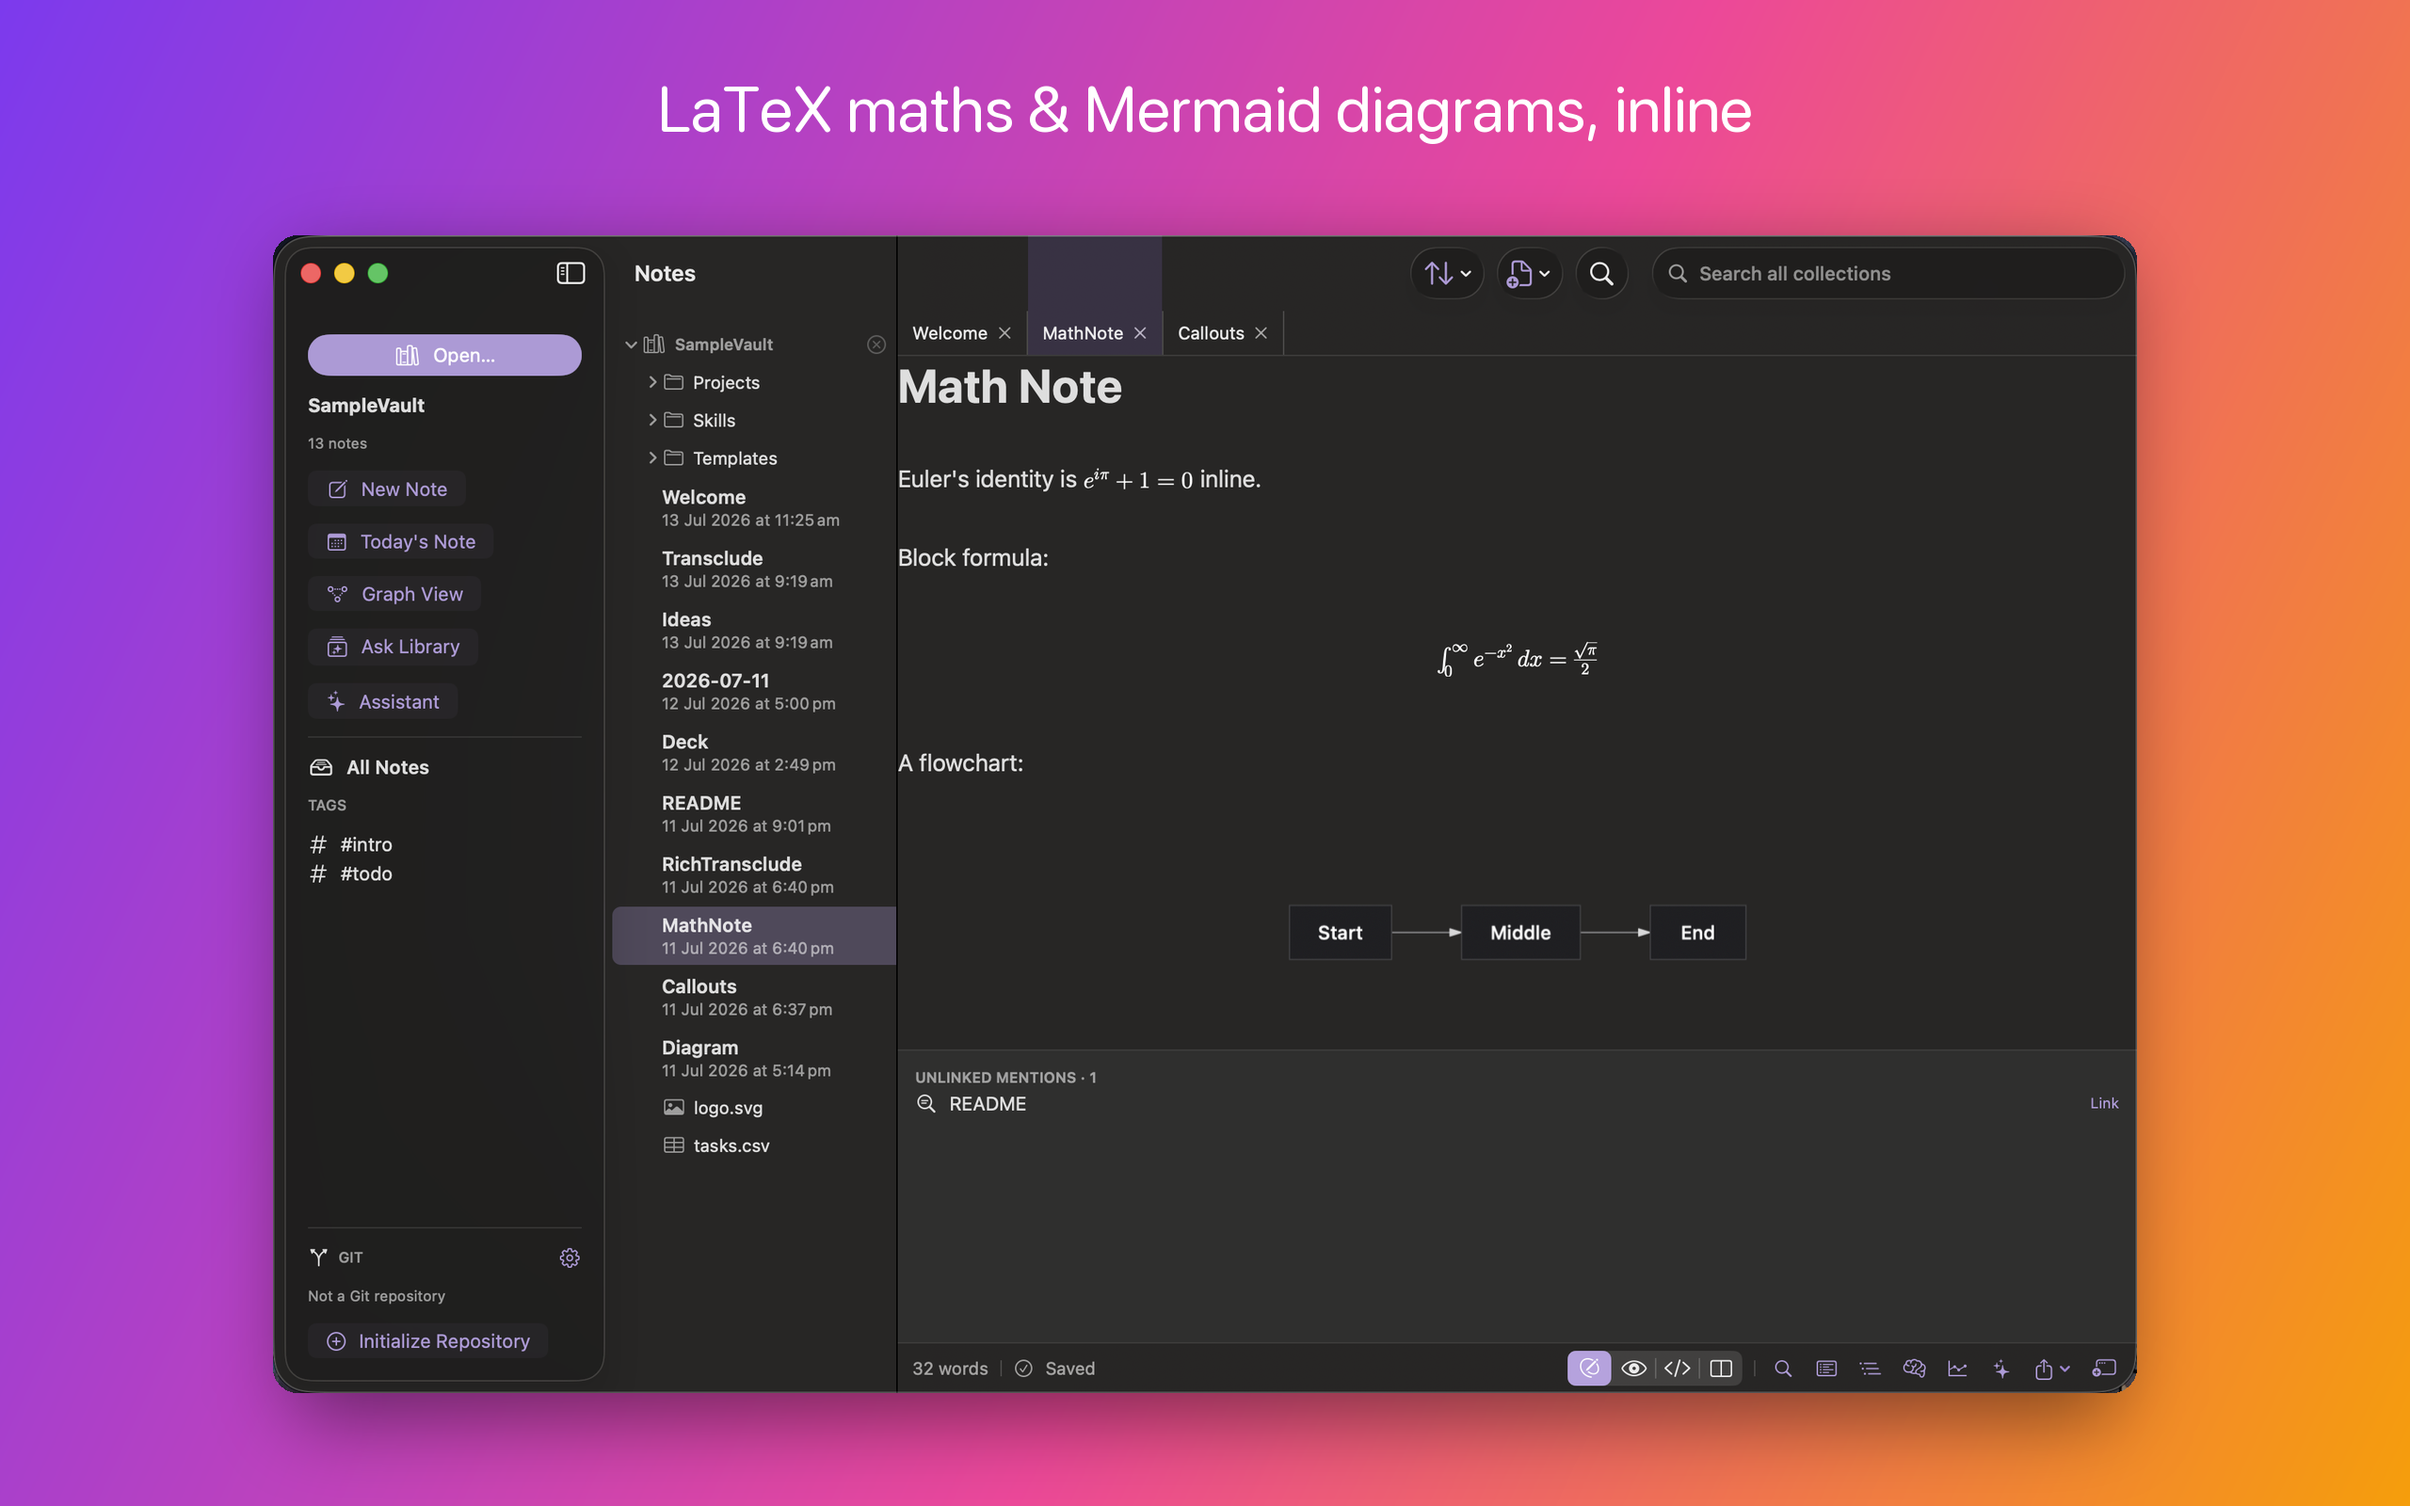
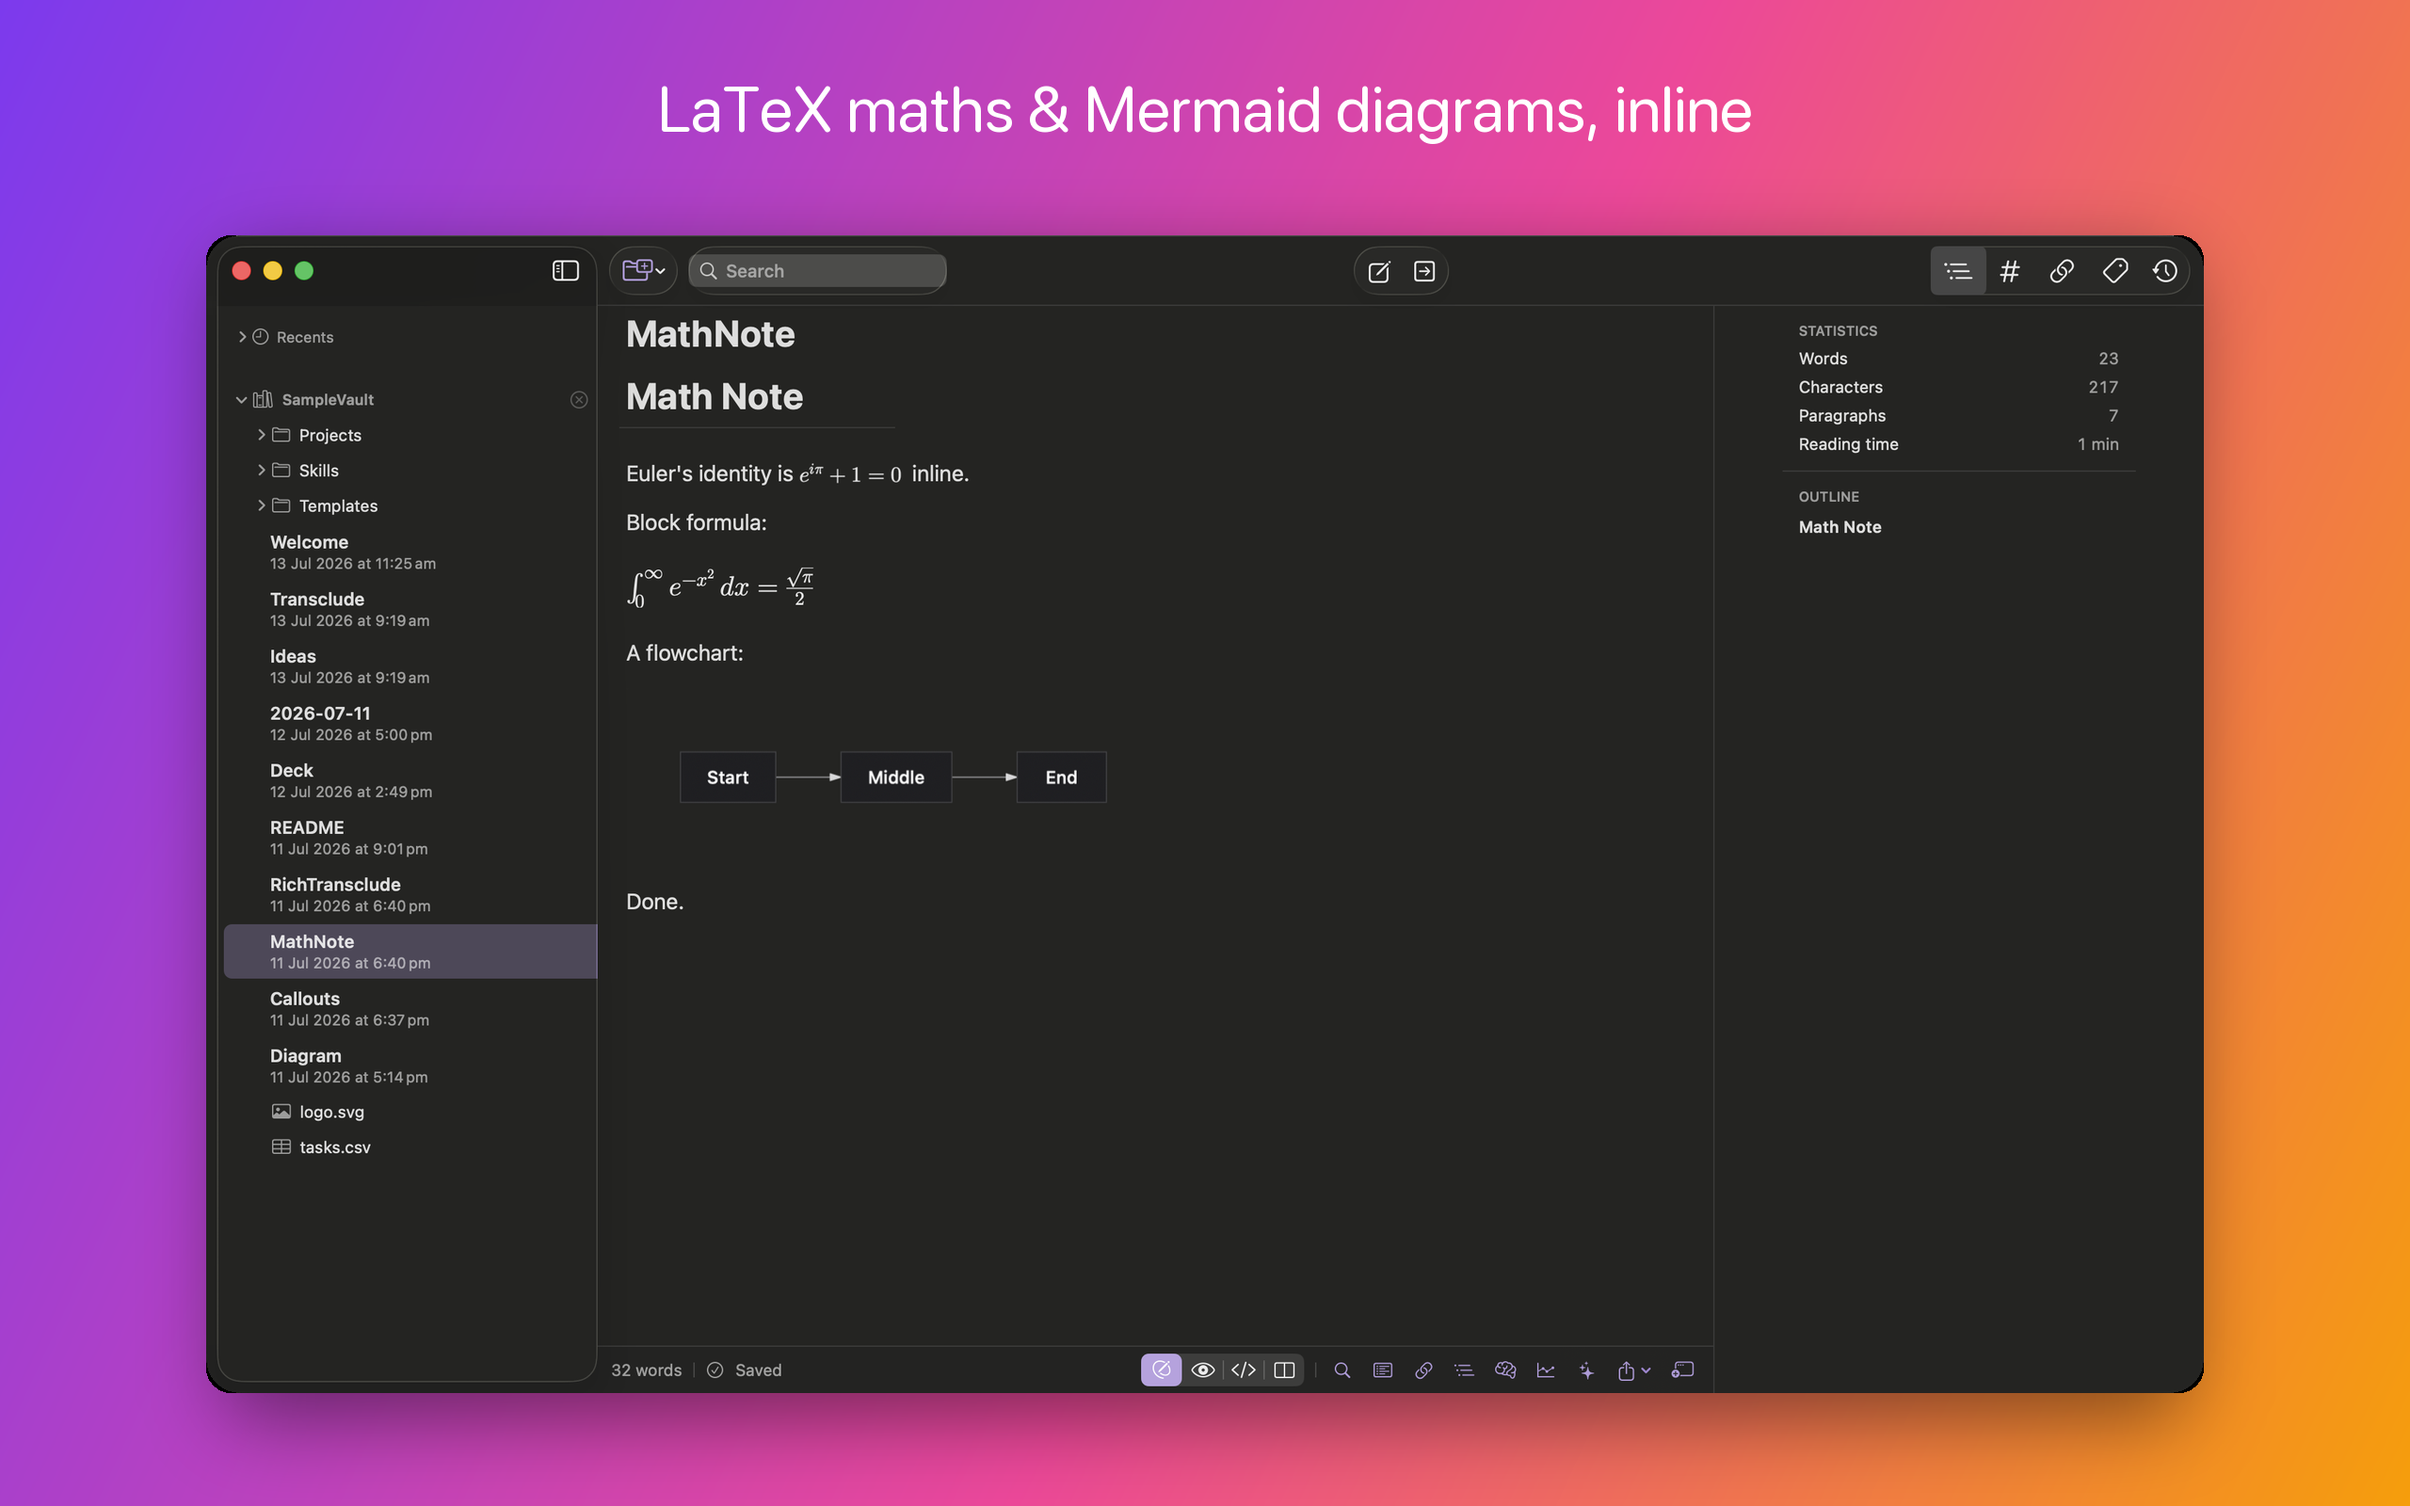
Reshoot the website screenshots for the new shell
All ten plates recaptured from one binary — the old set showed a library rail,
a collection card and quick-action buttons that no longer exist.

The shoot is worth its cost for reasons beyond the images. It found three
editor bugs, all fixed first so the plates show the shipping build: the `$$`
concealment artifacts, a red spell-check squiggle surviving concealment on
every rendered formula, and the re-bind clobber that corrupted the note you
just left.

Scene 5 is generated on-device by Apple Intelligence, so it needs no API keys.
Two things learned and written into website.md: the model is not deterministic
and not always correct — one run invented a "Backlinks button in the editor
bar" that does not exist, which is a false claim about the product and must
never reach a plate — and the light/dark pair is made by switching the app's
theme with the answer still on screen, not by asking twice, so the pair matches
exactly.

Also recorded: Screen Recording must be granted to the capturing process (its
absence gives a black full-screen grab and a hard failure for `-l`), and the
raw files must be `light_1.png` … `dark_5.png` with no zero padding, or the
script silently composites nothing while still writing og.png.

Site builds; audit clean across 16 pages.

diff --git a/docs/website.md b/docs/website.md
@@ -224,42 +224,46 @@ Two presentations, deliberately different:
 
 ### Re-shooting them
 
-The capture is manual, and there are three traps:
+The capture is manual. **Screen Recording must be granted to the process running
+the capture** (System Settings ▸ Privacy & Security ▸ Screen & System Audio
+Recording), and the grant only applies to a *fresh* process — quit and reopen
+after enabling it. Without it `screencapture` returns pure black full-screen,
+`screencapture -l` fails with "could not create image from window", and
+ScreenCaptureKit-based tools report "permission missing or SCContentFilter
+failure". A black 107 KB PNG where a desktop should be is the tell.
 
-1. **Use SampleVault, never a real vault.** The first capture pass caught the
-   author's own 2,019-note collection, with personal folder names legible in the
-   sidebar. Open SampleVault and *close* every other collection first.
-2. **The Claude Code window floats above everything**, so a `screencapture -R`
-   of the window region catches it. Hide that app for the duration and restore it
-   afterwards.
-3. **Synthetic `click at` events do not register in this SwiftUI app.** Drive the
-   UI with real clicks; AppleScript is fine for `set position`/`set size`.
+Traps, each one paid for:
 
-**Shoot at 1470×852**, not 1470×923: 923 only fits with the Dock hidden, and
-the compositor scales to fit, so any *consistent* size works — the wider aspect
-fills the plate slightly better. Set it without touching the mouse:
+1. **Use SampleVault, never a real vault.** The first pass caught the author's
+   own 2,000-note collection with personal folder names legible in the sidebar.
+   Open SampleVault, close every other collection, and **put the library back
+   afterwards** — closing a collection is a change to the user's state.
+2. **Capture with `screencapture -l <windowID>`, never `-R`.** It takes the one
+   window through the real compositor, so materials and vibrancy render
+   truthfully and nothing can float over the frame. It also means the desktop
+   *around* the window never appears — if you see wallpaper in a full-screen
+   grab, that is outside the window and will not be in the plate.
+3. **Synthetic `click at` events do not register in this SwiftUI app.** Drive it
+   with real clicks. The ⊗ on a collection's group row ignores them too; its
+   right-click menu ▸ Close Collection works.
+4. **Raw files are `light_1.png` … `dark_5.png`** — single digit, no zero
+   padding. The script skips anything else silently and still writes `og.png`,
+   so a run that "succeeded" can have composited nothing.
 
-```bash
-osascript -e 'tell application "System Events" to tell process "HelloNotes" \
-  to set size of window 1 to {1470, 923}'
-```
+**Shoot at 1470×852**, not 1470×923: 923 only fits with the Dock hidden, and the
+compositor scales to fit, so any *consistent* size works.
 
-Two more things learned driving it (2026-08-11):
+**Scene 5 (Ask Library) needs no API keys.** Apple Intelligence is the default
+intelligence provider, so the answer is generated on-device. Two things to know:
 
-- **Capture with `screencapture -l <windowID>`**, not `-R`. It takes the one
-  window through the compositor, so trap 2 above disappears entirely — no app
-  needs hiding, and materials and vibrancy render truthfully.
-- **The ⊗ on a collection's group row ignores a synthetic click**; its
-  right-click menu ▸ Close Collection works. Same for opening: `⌘O` ▸ Recent
-  Collections. Restore the real vault afterwards — closing it is a change to the
-  user's library, not just to the shot.
-
-Capture each scene as `raw/{light,dark}_{1..5}.png`, then:
-
-```bash
-python3 -m venv venv && ./venv/bin/pip install Pillow
-./venv/bin/python scripts/make-screenshots.py raw website/src/assets/screens
-```
+- The on-device model is **not deterministic and not always right**. Across four
+  runs of the same question it produced a clean answer, a verbatim dump of
+  README, and one that invented a "Backlinks button in the editor bar" that does
+  not exist. **Read the answer before shipping it** — a hallucination in a
+  marketing screenshot is a false claim about the product.
+- Get one good answer, then **switch the app's theme with the answer still on
+  screen** rather than re-asking. The text survives the appearance change, so
+  the light/dark pair matches exactly — which is the whole premise of the pair.
 
 The script composites the brand gradient, the caption and the window plate with
 rounded corners and a drop shadow — and also writes `public/assets/og.png`. The

diff --git a/docs/unimplemented.md b/docs/unimplemented.md
@@ -177,36 +177,16 @@ decisions are not:
   green macOS builds.
 - 🟡 **The universal (arm64 + x86_64) slice is still verified by hand** — CI builds the native
   runner architecture only.
-- 🔴 **The website screenshots predate the shell redesign** (2026-08-11). All five
-  light/dark pairs in `website/src/lib/screens.ts` show the old wide left sidebar with its
-  collection card, quick-action buttons and bookmarks — a UI that no longer exists, and now
-  two redesigns stale. **Blocks the next website deploy** — the download page and the feature
-  tour both lead with them.
+- ✅ ~~**The website screenshots predate the shell redesign**~~ — reshot 2026-08-12,
+  all ten plates from one binary, and the procedure (plus the Screen Recording
+  requirement, the raw-filename convention, and the on-device model's
+  non-determinism) is written up in [website.md](website.md) § Re-shooting them.
 
-  *The two editor-side blockers are gone* (the `$$` artifacts, §20, and the appearance-blind
-  block images, §19), and Ask Library needs **no API keys**: Apple Intelligence is the default
-  intelligence provider and this machine runs macOS 26, so scene 5 shoots on-device.
-
-  **What blocks it now is a host permission, not the app.** Every capture path fails:
-  `screencapture` full-screen returns pure black, `screencapture -l <id>` returns
-  "could not create image from window", and the computer-use `screenshot` returns
-  "permission missing or SCContentFilter failure". macOS requires **Screen Recording** for
-  all three. Grant it to the host process — `/Applications/Claude.app` — under
-  **System Settings ▸ Privacy & Security ▸ Screen & System Audio Recording**, then restart
-  the app (macOS only applies the grant to a fresh process). `System Events` window
-  resizing also failed with "Can't get window 1", which points at Accessibility being
-  unset for the same process.
-
-  Procedure once permission is granted:
-  - **Shoot at 1470×852**, not 1470×923; 923 only fits with the Dock hidden, and the
-    compositor scales to fit, so any *consistent* size works.
-  - Grant computer-use access to **HelloNotes alone** — screenshot filtering is
-    compositor-level (`screenshotFiltering: native`), so no other window can appear in
-    the frame, which retires the old "hide the Claude window" trap entirely.
-  - `⌘O` → Recent Collections → SampleVault; right-click the real vault → Close
-    Collection (the ⊗ on the group row ignores a synthetic click; the context menu
-    works). **Restore the real vault afterwards** — closing it changes the user's library.
-  - Composite with `scripts/make-screenshots.py raw website/src/assets/screens`.
+  The shoot found three more editor bugs, which is now its established value:
+  the `$$` artifacts (§6, fixed), a red spell-check squiggle surviving
+  concealment on every rendered formula, and — the serious one — `bind(to:)`
+  flattening the *previous* document's fonts, so switching notes permanently
+  corrupted the note you left. See [implemented.md §20](implemented.md).
 
 - 🟡 **Toolchain-sensitive code shapes** — two functions in `Core/VisionAlt.swift` are
   deliberately non-generic to dodge a SIL-inliner bug and carry comments saying so. If the
